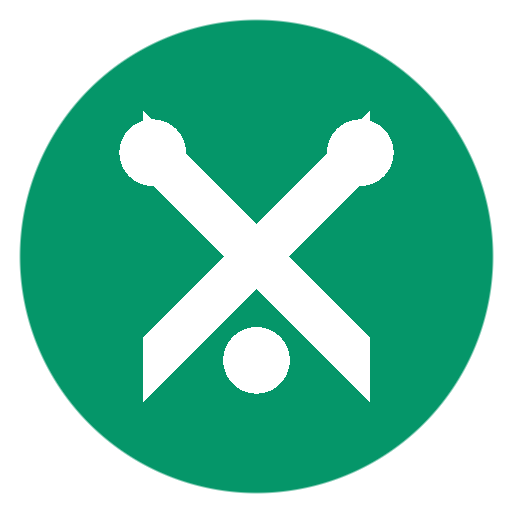
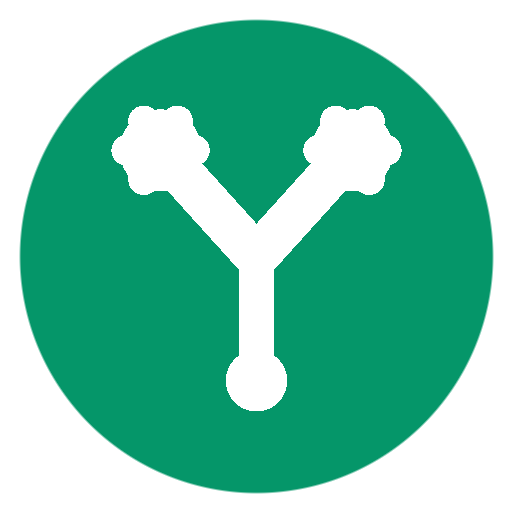
Update Botanical Breed app - auto deploy from breeding-app

diff --git a/breeding-app/sw.js b/breeding-app/sw.js
@@ -1,1 +1,1 @@
-if(!self.define){let e,n={};const i=(i,s)=>(i=new URL(i+".js",s).href,n[i]||new Promise(n=>{if("document"in self){const e=document.createElement("script");e.src=i,e.onload=n,document.head.appendChild(e)}else e=i,importScripts(i),n()}).then(()=>{let e=n[i];if(!e)throw new Error(`Module ${i} didn’t register its module`);return e}));self.define=(s,r)=>{const o=e||("document"in self?document.currentScript.src:"")||location.href;if(n[o])return;let c={};const a=e=>i(e,o),t={module:{uri:o},exports:c,require:a};n[o]=Promise.all(s.map(e=>t[e]||a(e))).then(e=>(r(...e),c))}}define(["./workbox-99865a2e"],function(e){"use strict";self.skipWaiting(),e.clientsClaim(),e.precacheAndRoute([{url:"registerSW.js",revision:"7b919160a04d6fa4cf1975d10c89fd94"},{url:"index.html",revision:"ad05b38a0a4b0cdab844b853eb4c4696"},{url:"icon-512.png",revision:"8fa7a6d2cd4bb298b9fb8a331c14e91a"},{url:"icon-192.png",revision:"4713a93083b00982772fe152ee771b5d"},{url:"apple-touch-icon.png",revision:"c393a4c5fafb8115f374057d3e5f1a80"},{url:"assets/index-Clonzm2l.js",revision:null},{url:"assets/index-Bk0ky3As.css",revision:null},{url:"apple-touch-icon.png",revision:"c393a4c5fafb8115f374057d3e5f1a80"},{url:"icon-192.png",revision:"4713a93083b00982772fe152ee771b5d"},{url:"icon-512.png",revision:"8fa7a6d2cd4bb298b9fb8a331c14e91a"},{url:"manifest.webmanifest",revision:"817f91d6a745b85c97c7d29eaeaa8f57"}],{}),e.cleanupOutdatedCaches(),e.registerRoute(/^https:\/\/blnbyntjpddiyujuewsc\.supabase\.co\/.*/,new e.NetworkFirst({cacheName:"supabase-cache",plugins:[new e.ExpirationPlugin({maxEntries:100,maxAgeSeconds:86400})]}),"GET")});
+if(!self.define){let e,n={};const i=(i,s)=>(i=new URL(i+".js",s).href,n[i]||new Promise(n=>{if("document"in self){const e=document.createElement("script");e.src=i,e.onload=n,document.head.appendChild(e)}else e=i,importScripts(i),n()}).then(()=>{let e=n[i];if(!e)throw new Error(`Module ${i} didn’t register its module`);return e}));self.define=(s,c)=>{const r=e||("document"in self?document.currentScript.src:"")||location.href;if(n[r])return;let o={};const t=e=>i(e,r),a={module:{uri:r},exports:o,require:t};n[r]=Promise.all(s.map(e=>a[e]||t(e))).then(e=>(c(...e),o))}}define(["./workbox-99865a2e"],function(e){"use strict";self.skipWaiting(),e.clientsClaim(),e.precacheAndRoute([{url:"registerSW.js",revision:"7b919160a04d6fa4cf1975d10c89fd94"},{url:"index.html",revision:"ad05b38a0a4b0cdab844b853eb4c4696"},{url:"icon-512.png",revision:"837cdfc5b6b93bb994b96884d4298633"},{url:"icon-192.png",revision:"696cafda86d379febaeea342b3063bc8"},{url:"apple-touch-icon.png",revision:"9ecec145d9468ef05cc4e04ab94777e3"},{url:"assets/index-Clonzm2l.js",revision:null},{url:"assets/index-Bk0ky3As.css",revision:null},{url:"apple-touch-icon.png",revision:"9ecec145d9468ef05cc4e04ab94777e3"},{url:"icon-192.png",revision:"696cafda86d379febaeea342b3063bc8"},{url:"icon-512.png",revision:"837cdfc5b6b93bb994b96884d4298633"},{url:"manifest.webmanifest",revision:"817f91d6a745b85c97c7d29eaeaa8f57"}],{}),e.cleanupOutdatedCaches(),e.registerRoute(/^https:\/\/blnbyntjpddiyujuewsc\.supabase\.co\/.*/,new e.NetworkFirst({cacheName:"supabase-cache",plugins:[new e.ExpirationPlugin({maxEntries:100,maxAgeSeconds:86400})]}),"GET")});
